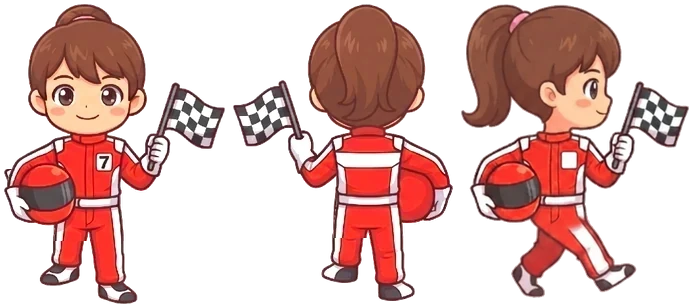
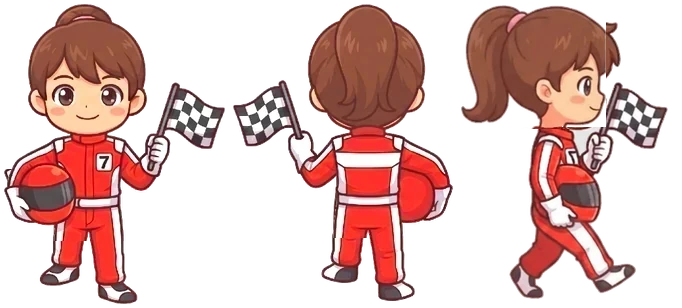
레이서 여자아이 옆모습: 남자 레이서 몸에 여자아이 머리만 얹어 만들기(서 있기·걷기)

diff --git a/js/data/character-sprites.js b/js/data/character-sprites.js
@@ -536,9 +536,9 @@ window.MP_CHAR_SPRITES = {
    "right": [
     461,
     4,
-    228,
+    217,
     297,
-    92.2,
+    96.2,
     297
    ],
    "up": [
@@ -564,10 +564,10 @@ window.MP_CHAR_SPRITES = {
     "right": [
      461,
      4,
-     228,
-     294,
-     93.5,
-     294
+     217,
+     295,
+     97.2,
+     295
     ],
     "up": [
      233,
@@ -1451,4 +1451,4 @@ window.MP_CHAR_SPRITES = {
   }
  }
 };
-window.MP_CHAR_VER = '20261119105327';
+window.MP_CHAR_VER = '20261119105625';
